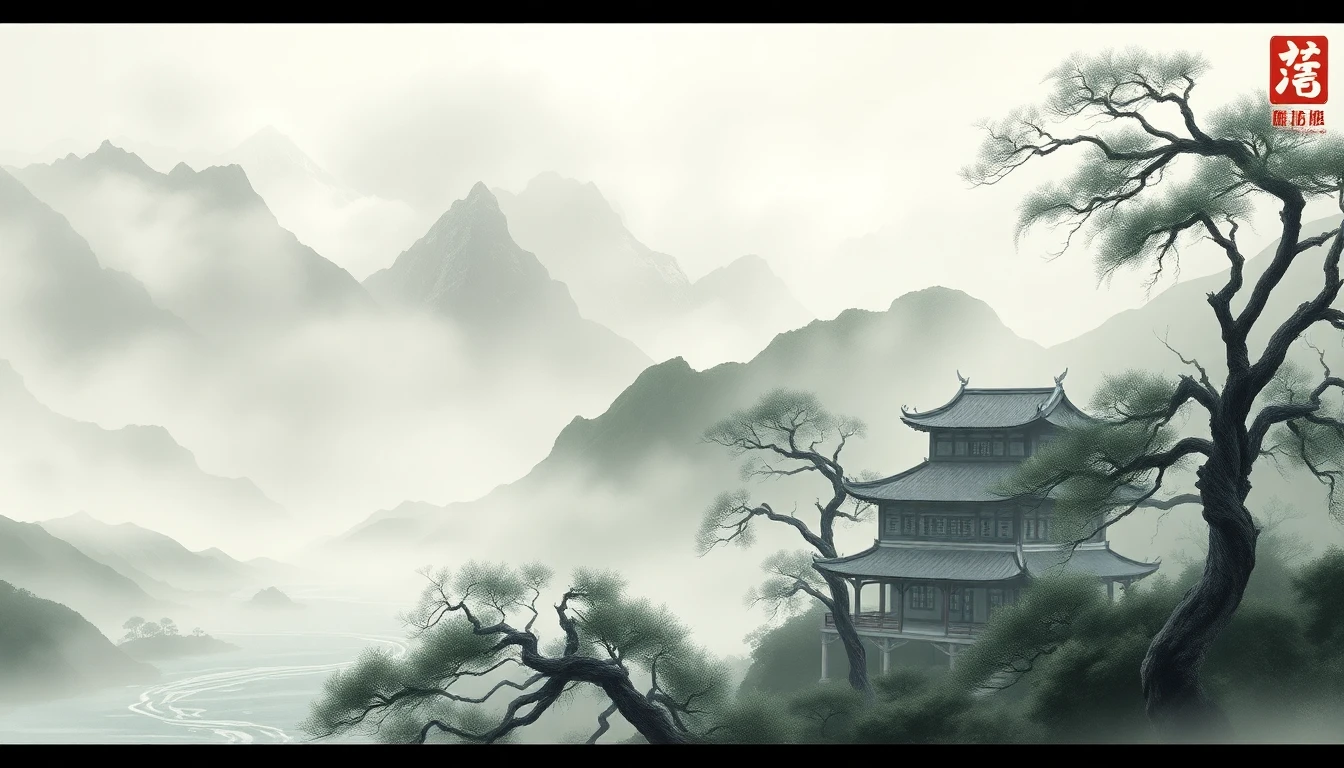
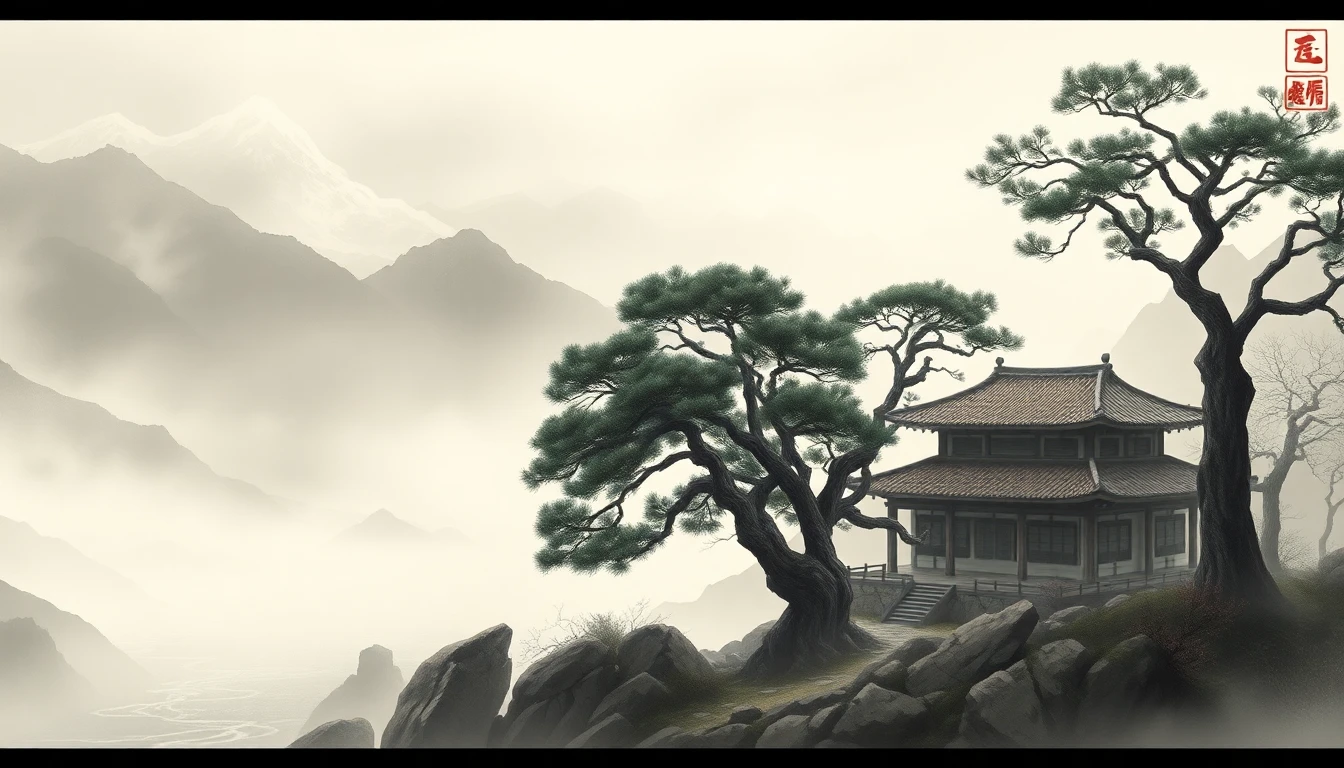
v2: 📜 扩展版提示词（加强意境与细节） 请创作一幅具有中国传统水墨画风格的高品质数字艺术作品，以视觉语言致敬中华文化的深厚底蕴与审美哲思。整幅画作应呈现一处清幽的山水胜境：远山如黛，云雾缭绕，峰峦层叠；中景为潺潺流淌的溪河，水面倒映着天光与松影，灵动且宁静；近处几株苍劲古松挺立，枝干遒劲有力，象征坚韧与岁月；一座掩映于山林之间的古代书院点缀其间，屋檐飞翘、瓦色温润，彰显出文人精神的居所之感。 请在画作中加入一段以行草或楷书写就的仿唐代古诗，文字内容可围绕“山水之美、心境之和、天人合一”的主题展开，

diff --git a/index.html b/index.html
@@ -12,18 +12,23 @@
         <div class="mist-overlay"></div>
     </div>
     <div id="poem-container">
-        <p>和</p>
-        <p>谐</p>
-        <p>智</p>
-        <p>慧</p>
+        <p>松</p>
+        <p>风</p>
+        <p>拂</p>
+        <p>袖</p>
+        <p>思</p>
+        <p>无</p>
+        <p>言</p>
         <p>，</p>
-        <p>师</p>
-        <p>法</p>
-        <p>自</p>
-        <p>然</p>
+        <p>云</p>
+        <p>深</p>
+        <p>不</p>
+        <p>知</p>
+        <p>归</p>
+        <p>路</p>
+        <p>远</p>
     </div>
     <script src="script.js"></script>
 <script defer src="https://static.cloudflareinsights.com/beacon.min.js/v8c78df7c7c0f484497ecbca7046644da1771523124516" integrity="sha512-8DS7rgIrAmghBFwoOTujcf6D9rXvH8xm8JQ1Ja01h9QX8EzXldiszufYa4IFfKdLUKTTrnSFXLDkUEOTrZQ8Qg==" data-cf-beacon='{"version":"2024.11.0","token":"4c6229722a6346bc8eb5cb0e5eae5d41","server_timing":{"name":{"cfCacheStatus":true,"cfEdge":true,"cfExtPri":true,"cfL4":true,"cfOrigin":true,"cfSpeedBrain":true},"location_startswith":null}}' crossorigin="anonymous"></script>
 </body>
 </html>
-

diff --git a/style.css b/style.css
@@ -1,4 +1,4 @@
-@import url('https://fonts.googleapis.com/css2?family=Ma+Shan+Zheng&display=swap');
+@import url('https://fonts.googleapis.com/css2?family=Zhi+Mang+Xing&display=swap');
 
 body, html {
     margin: 0;
@@ -7,7 +7,7 @@ body, html {
     height: 100%;
     overflow: hidden;
     background-color: #f0f0e0; /* A pale, parchment-like color */
-    font-family: 'Ma Shan Zheng', cursive;
+    font-family: 'Zhi Mang Xing', cursive;
 }
 
 #artwork-container {
@@ -60,8 +60,8 @@ body, html {
     writing-mode: vertical-rl;
     text-orientation: mixed;
     color: #333;
-    font-size: 2.5rem;
-    line-height: 1.5;
+    font-size: 2.2rem;
+    line-height: 1.6;
     text-shadow: 1px 1px 3px rgba(255, 255, 255, 0.7);
     pointer-events: none;
     opacity: 0;
@@ -79,4 +79,3 @@ body, html {
         opacity: 0.85;
     }
 }
-
